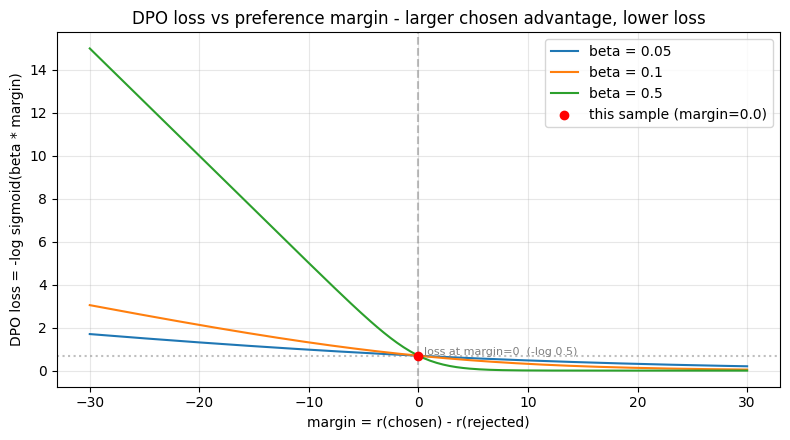
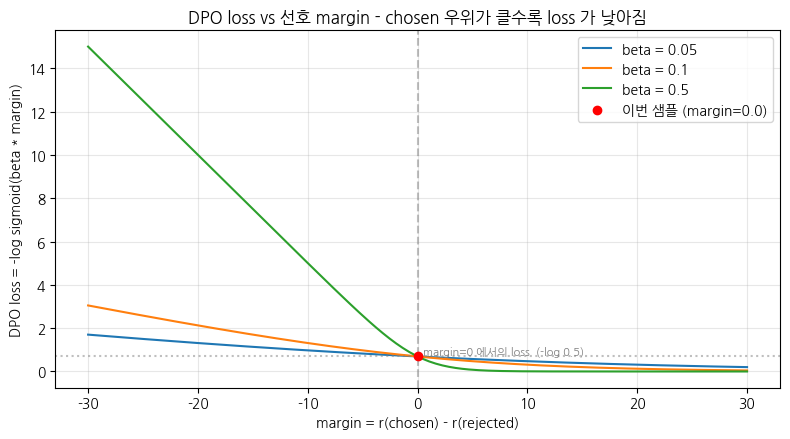
Ch 30 WikiDocs 변환 — executed 한글 plot 재생성
Claude-Session: https://claude.ai/code/session_01WacYaM89hZLnSLh4o6sjrA

diff --git a/pages/30-dpo-practice.md b/pages/30-dpo-practice.md
@@ -9,15 +9,16 @@
 **▶ 실행 결과**
 
 ```text
-   ━━━━━━━━━━━━━━━━━━━━━━━━━━━━━━━━━━━━━━━━ 825.1/825.1 kB 50.9 MB/s eta 0:00:00
-   ━━━━━━━━━━━━━━━━━━━━━━━━━━━━━━━━━━━━━━━╸ 11.1/11.2 MB 200.3 MB/s eta 0:00:01
-   ━━━━━━━━━━━━━━━━━━━━━━━━━━━━━━━━━━━━━━━━ 11.2/11.2 MB 101.7 MB/s eta 0:00:00
-   ━━━━━━━━━━━━━━━━━━━━━━━━━━━━━━━━━━━━━━━━ 555.1/555.1 kB 45.4 MB/s eta 0:00:00
-   ━━━━━━━━━━━━━━━━━━━━━━━━━━━━━━━━━━━━━━━━ 389.2/389.2 kB 36.3 MB/s eta 0:00:00
-   ━━━━━━━━━━━━━━━━━╺━━━━━━━━━━━━━━━━━━━━━━ 21.2/48.9 MB 203.7 MB/s eta 0:00:01
-   ━━━━━━━━━━━━━━━━━━━━━━━━━━━━━━━━━━━━━━━╸ 48.9/48.9 MB 135.1 MB/s eta 0:00:01
-   ━━━━━━━━━━━━━━━━━━━━━━━━━━━━━━━━━━━━━━━╸ 48.9/48.9 MB 135.1 MB/s eta 0:00:01
-   ━━━━━━━━━━━━━━━━━━━━━━━━━━━━━━━━━━━━━━━━ 48.9/48.9 MB 15.6 MB/s eta 0:00:00
+   ━━━━━━━━━━━━━━━━━━━━━━━━━━━━━━━━━━━━━━━━ 825.1/825.1 kB 27.6 MB/s eta 0:00:00
+   ━━━━━━━━━━━━━━━━━━━━━━━╸━━━━━━━━━━━━━━━━ 6.6/11.2 MB 199.2 MB/s eta 0:00:01
+   ━━━━━━━━━━━━━━━━━━━━━━━━━━━━━━━━━━━━━━━━ 11.2/11.2 MB 113.5 MB/s eta 0:00:00
+   ━━━━━━━━━━━━━━━━━━━━━━━━━━━━━━━━━━━━━━━━ 555.1/555.1 kB 50.6 MB/s eta 0:00:00
+   ━━━━━━━━━━━━━━━━━━━━━━━━━━━━━━━━━━━━━━━━ 389.2/389.2 kB 39.4 MB/s eta 0:00:00
+   ━━━━━━━━━━━━━━━━╸━━━━━━━━━━━━━━━━━━━━━━━ 20.7/48.9 MB 219.7 MB/s eta 0:00:01
+   ━━━━━━━━━━━━━━━━━━━━━━━━━━━━━━━━━━━━━━━╸ 48.9/48.9 MB 148.1 MB/s eta 0:00:01
+   ━━━━━━━━━━━━━━━━━━━━━━━━━━━━━━━━━━━━━━━╸ 48.9/48.9 MB 148.1 MB/s eta 0:00:01
+   ━━━━━━━━━━━━━━━━━━━━━━━━━━━━━━━━━━━━━━━╸ 48.9/48.9 MB 148.1 MB/s eta 0:00:01
+   ━━━━━━━━━━━━━━━━━━━━━━━━━━━━━━━━━━━━━━━━ 48.9/48.9 MB 16.2 MB/s eta 0:00:00
 ```
 
 ```python
@@ -64,6 +65,15 @@ random.seed(SEED)
 # fp16 은 CUDA 에서만 (MPS 는 미지원, CPU 는 의미 없음)
 USE_FP16 = (device.type == "cuda")
 print(f"use fp16     : {USE_FP16}")
+
+# matplotlib 한글 폰트 (Colab — NanumGothic). plot 의 한국어가 □ 로 깨지지 않게.
+import matplotlib.pyplot as plt, matplotlib.font_manager as fm, subprocess, os
+_fp = "/usr/share/fonts/truetype/nanum/NanumGothic.ttf"
+if not os.path.exists(_fp):
+    subprocess.run("apt-get -qq -y install fonts-nanum", shell=True)
+fm.fontManager.addfont(_fp)
+plt.rcParams["font.family"] = "NanumGothic"
+plt.rcParams["axes.unicode_minus"] = False
 ```
 
 **▶ 실행 결과**
@@ -138,9 +148,9 @@ print("\n=== preference sample 0 ===")
 ex0 = dpo_ds[0]
 print("--- prompt ---")
 print(ex0["prompt"])
-print("--- chosen (preferred) ---")
+print("--- chosen (선호) ---")
 print(ex0["chosen"][:200])
-print("\n--- rejected (less preferred) ---")
+print("\n--- rejected (덜 선호) ---")
 print(ex0["rejected"][:200])
 ```
 
@@ -159,10 +169,10 @@ formatted dataset: Dataset({
 
 ### 응답:
 
---- chosen (preferred) ---
+--- chosen (선호) ---
 숫자 집합의 표준 편차를 계산하려면 다음 단계를 따르세요:1. 숫자의 평균(평균)을 계산합니다.2. 각 숫자에서 평균을 뺀 다음 결과를 제곱합니다.3. 제곱 차이의 평균을 계산합니다.4. 제곱 차이의 평균의 제곱근을 구합니다.주어진 숫자 [1, 2, …(뒤 60자 생략)
 
---- rejected (less preferred) ---
+--- rejected (덜 선호) ---
 배열 [1, 2, 3, 4, 5]의 표준 편차를 구하려면 먼저 배열의 평균을 계산해야 합니다. 이렇게 하려면 배열의 모든 숫자를 합산하고 배열의 총 숫자 수로 나눕니다. 이 경우 (1+2+3+4+5)/5 = 16입니다. 따라서 배열의 평균은 16입니다 …(뒤 60자 생략)
 ```
 
@@ -204,7 +214,7 @@ transformer.h.{0...11}.attn.masked_bias | UNEXPECTED |  |
 
 Notes:
 - UNEXPECTED:	can be ignored when loading from different task/architecture; not ok if you expect identical arch.
-load done: 10.9s
+load done: 15.0s
 
 === policy model ===
 #params      : 125.16 M
@@ -224,16 +234,16 @@ for p in ref_model.parameters():
 
 n_trainable_ref = sum(p.requires_grad for p in ref_model.parameters())
 print(f"reference model: frozen  (trainable params = {n_trainable_ref})")
-print("policy   : trainable (gradient flows)")
-print("reference: frozen (no gradient) - the anchor for the KL constraint")
+print("policy   : 학습 대상 (gradient 흐름)")
+print("reference: 고정 (gradient 안 흐름) - KL 제약의 닻")
 ```
 
 **▶ 실행 결과**
 
 ```text
 reference model: frozen  (trainable params = 0)
-policy   : trainable (gradient flows)
-reference: frozen (no gradient) - the anchor for the KL constraint
+policy   : 학습 대상 (gradient 흐름)
+reference: 고정 (gradient 안 흐름) - KL 제약의 닻
 ```
 
 ```python
@@ -273,7 +283,7 @@ margin = r_w - r_l
 loss = -math.log(1.0 / (1.0 + math.exp(-BETA * margin)))   # -log sigmoid(beta*margin)
 
 print("=" * 60)
-print("DPO loss - manual calculation on one sample (response-only log-prob)")
+print("DPO loss - 한 샘플로 손계산 (response-only log-prob)")
 print("=" * 60)
 print(f"log pi_theta(chosen)    : {pi_w:10.3f}")
 print(f"log pi_ref  (chosen)    : {ref_w:10.3f}")
@@ -290,7 +300,7 @@ print(f"DPO loss = -log sigmoid(beta*margin) = {loss:8.4f}   (beta={BETA})")
 
 ```text
 ============================================================
-DPO loss - manual calculation on one sample (response-only log-prob)
+DPO loss - 한 샘플로 손계산 (response-only log-prob)
 ============================================================
 log pi_theta(chosen)    :   -579.046
 log pi_ref  (chosen)    :   -579.046
@@ -313,14 +323,14 @@ for b in [0.05, 0.1, 0.5]:
 
 # 이번 샘플의 (margin, loss) 위치
 ax.scatter([margin], [loss], color="red", zorder=5,
-           label=f"this sample (margin={margin:.1f})")
+           label=f"이번 샘플 (margin={margin:.1f})")
 ax.axvline(0, color="gray", ls="--", alpha=0.5)
 ax.axhline(-math.log(0.5), color="gray", ls=":", alpha=0.5)
-ax.text(0.5, -math.log(0.5) + 0.05, "loss at margin=0  (-log 0.5)",
+ax.text(0.5, -math.log(0.5) + 0.05, "margin=0 에서의 loss  (-log 0.5)",
         fontsize=8, color="gray")
 ax.set_xlabel("margin = r(chosen) - r(rejected)")
 ax.set_ylabel("DPO loss = -log sigmoid(beta * margin)")
-ax.set_title("DPO loss vs preference margin - larger chosen advantage, lower loss")
+ax.set_title("DPO loss vs 선호 margin - chosen 우위가 클수록 loss 가 낮아짐")
 ax.legend(); ax.grid(True, alpha=0.3)
 plt.tight_layout(); plt.show()
 ```
@@ -351,7 +361,7 @@ before_margins = reward_margins(policy, ref_model, dpo_ds, n=64)
 acc_before = float((before_margins > 0).mean() + 0.5 * (before_margins == 0).mean())  # 무승부(margin=0)=0.5
 print(f"BEFORE DPO - reward margin (n={len(before_margins)})")
 print(f"  mean margin     : {before_margins.mean():.3f}")
-print(f"  reward accuracy : {acc_before:.3f}  (ratio of margin>0; policy=ref so margin=0 -> tie 50%)")
+print(f"  reward accuracy : {acc_before:.3f}  (ratio of margin>0; policy=ref 라 margin=0 → 무승부 50%)")
 ```
 
 **▶ 실행 결과**
@@ -359,7 +369,7 @@ print(f"  reward accuracy : {acc_before:.3f}  (ratio of margin>0; policy=ref so 
 ```text
 BEFORE DPO - reward margin (n=64)
   mean margin     : 0.000
-  reward accuracy : 0.500  (ratio of margin>0; policy=ref so margin=0 -> tie 50%)
+  reward accuracy : 0.500  (ratio of margin>0; policy=ref 라 margin=0 → 무승부 50%)
 ```
 
 ```python
@@ -439,9 +449,9 @@ Notes:
 - UNEXPECTED:	can be ignored when loading from different task/architecture; not ok if you expect identical arch.
 <IPython.core.display.HTML object>
 === DPO summary ===
-elapsed     : 2.37 min
+elapsed     : 2.39 min
 global_step : 94
-train_loss  : 0.7071
+train_loss  : 0.7070
 final peak  : 2414 MiB
 ```
 
@@ -458,13 +468,13 @@ fig, ax = plt.subplots(figsize=(8, 4.5))
 bins = np.linspace(min(before_margins.min(), after_margins.min()),
                    max(before_margins.max(), after_margins.max()), 30)
 ax.hist(before_margins, bins=bins, alpha=0.6, color="tab:gray",
-        label=f"before DPO (acc={acc_before:.2f})")
+        label=f"DPO 전 (acc={acc_before:.2f})")
 ax.hist(after_margins, bins=bins, alpha=0.6, color="tab:green",
-        label=f"after DPO (acc={acc_after:.2f})")
+        label=f"DPO 후 (acc={acc_after:.2f})")
 ax.axvline(0, color="red", ls="--", alpha=0.7, label="margin = 0")
 ax.set_xlabel("reward margin = r(chosen) - r(rejected)")
-ax.set_ylabel("count")
-ax.set_title("DPO before vs after - margin shifts toward positive (chosen preferred)")
+ax.set_ylabel("개수")
+ax.set_title("DPO 전 vs 후 - margin 이 양수 쪽으로 이동 (chosen 선호)")
 ax.legend(); ax.grid(True, alpha=0.3)
 plt.tight_layout(); plt.show()
 ```
@@ -473,7 +483,7 @@ plt.tight_layout(); plt.show()
 
 ```text
 AFTER DPO - reward margin (n=64)
-  mean margin     : 12.721  (before: 0.000)
+  mean margin     : 12.712  (before: 0.000)
   reward accuracy : 0.844  (before: 0.500)
 ```
 
@@ -506,7 +516,7 @@ if mgns:
     ax2b.set_ylabel("reward margin", color="tab:orange")
 ax2.axhline(0.5, color="gray", ls=":", alpha=0.6)
 ax2.set_xlabel("step"); ax2.set_ylabel("reward accuracy", color="tab:green")
-ax2.set_title("DPO reward accuracy / margin  (fraction chosen > rejected)")
+ax2.set_title("DPO reward accuracy / margin  (chosen > rejected 비율)")
 ax2.grid(True, alpha=0.3)
 
 plt.tight_layout(); plt.show()

diff --git a/pages/30-dpo.md b/pages/30-dpo.md
@@ -275,10 +275,12 @@ DPO 는 *policy + frozen reference 두 모델* 을 씁니다. reference 는 *학
 
 본 챕터의 핵심 데모. *같은 preference 샘플들* 에 대해 *DPO 전* 과 *DPO 후* 의 **reward margin (chosen - rejected 의 implicit reward)** 분포를 비교합니다.
 
-- **DPO 전**: policy ≈ reference → margin ≈ 0 근처, reward accuracy (margin>0 비율) ≈ 0.5
+- **DPO 전**: policy = reference → margin 이 *정확히 0* (무승부). reward accuracy 0.500
 - **DPO 후**: policy 가 *chosen 을 더 선호* → margin 분포가 *양수 쪽으로 이동*, reward accuracy ↑
 
 margin 분포가 *오른쪽 (양수) 으로 밀려났다면* 정렬이 일어난 직접 증거입니다.
+
+> **측정 노트.** 학습 전에는 policy 와 reference 가 같아 margin 이 *모든 샘플에서 정확히 0* 입니다. 'margin>0 비율' 로만 세면 0.000 이 나오지만, 무승부(margin=0)는 동전 던지기처럼 50% 이므로 **0.5 로 집계** 합니다 (코드의 `+ 0.5 * (margin == 0)`). 그래야 before 0.500 → after 0.844 로 정렬 효과가 왜곡 없이 읽힙니다.
 
 **해석 가이드 — preference alignment 의 증거**
 
@@ -295,6 +297,4 @@ margin 분포가 *오른쪽 (양수) 으로 밀려났다면* 정렬이 일어난
 
 ## 이 장의 구성
 
-- [30-1. 실습](30-dpo-practice.md)
-- [30-2. 변형: β 조정 / 더 많은 preference / DPO 변종](30-dpo-variation.md)
-- [30-3. 정리와 FAQ](30-dpo-wrapup.md)
+[[SubPages]]

diff --git a/pages/30-dpo-wrapup.md b/pages/30-dpo-wrapup.md
@@ -64,7 +64,7 @@ trainer = DPOTrainer(model=policy, ref_model=None, args=cfg,
 - **β 너무 작음** (예: 0.01): reference 제약이 *매우 강함* → policy 가 reference 근처에 묶여 *거의 안 움직임* → 정렬이 느리거나 안 됨
 
 ```python
-# 0.1 에서 시작. reward accuracy 가 안 오르면 0.2-0.3 으로,
+# 1 에서 시작. reward accuracy 가 안 오르면 0.2-0.3 으로,
 # 답변이 망가지면 (반복/collapse) 0.05 로 낮춰 보세요.
 dpo_config.beta = 0.1
 ```

diff --git a/pages/30-dpo-variation.md b/pages/30-dpo-variation.md
@@ -5,7 +5,7 @@
 ```python
 # dpo_config.beta = 0.5    # 제약 느슨 -> 빨리 정렬되지만 collapse 위험 (reference 에서 멀어짐)
 # dpo_config.beta = 0.05   # 제약 강함 -> 안전하지만 정렬 느림
-# 0.1 이 무난한 출발점. reward accuracy 가 안 오르면 beta 를 약간 올려 보세요.
+# 1 이 무난한 출발점. reward accuracy 가 안 오르면 beta 를 약간 올려 보세요.
 ```
 
 ### 변형 2. 더 많은 preference / SFT 모델에서 출발
